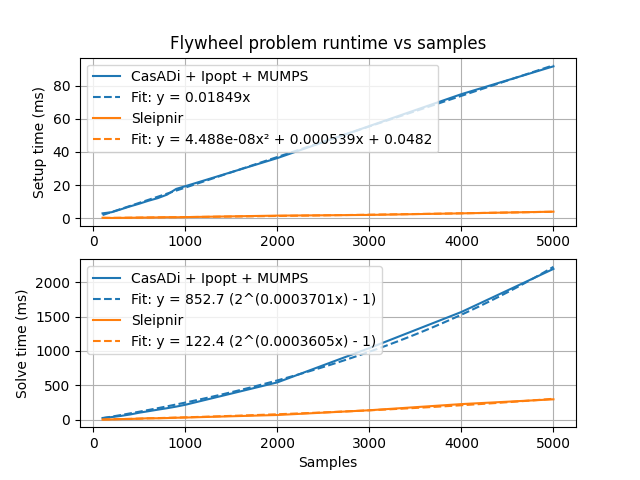
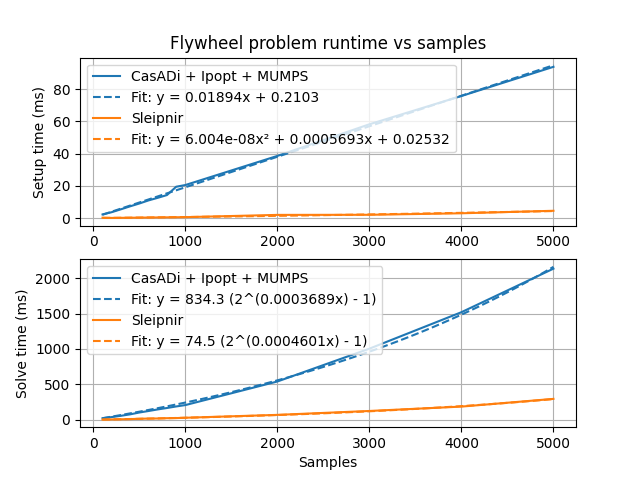
Remove cached triplet vector reservation (#675)

diff --git a/include/sleipnir/autodiff/Jacobian.hpp b/include/sleipnir/autodiff/Jacobian.hpp
@@ -43,9 +43,6 @@ class SLEIPNIR_DLLEXPORT Jacobian {
       m_graphs.emplace_back(variable.expr);
     }
 
-    // Reserve triplet space for 99% sparsity
-    m_cachedTriplets.reserve(m_variables.Rows() * m_wrt.Rows() * 0.01);
-
     for (int row = 0; row < m_variables.Rows(); ++row) {
       if (m_variables(row).Type() == ExpressionType::kLinear) {
         // If the row is linear, compute its gradient once here and cache its
